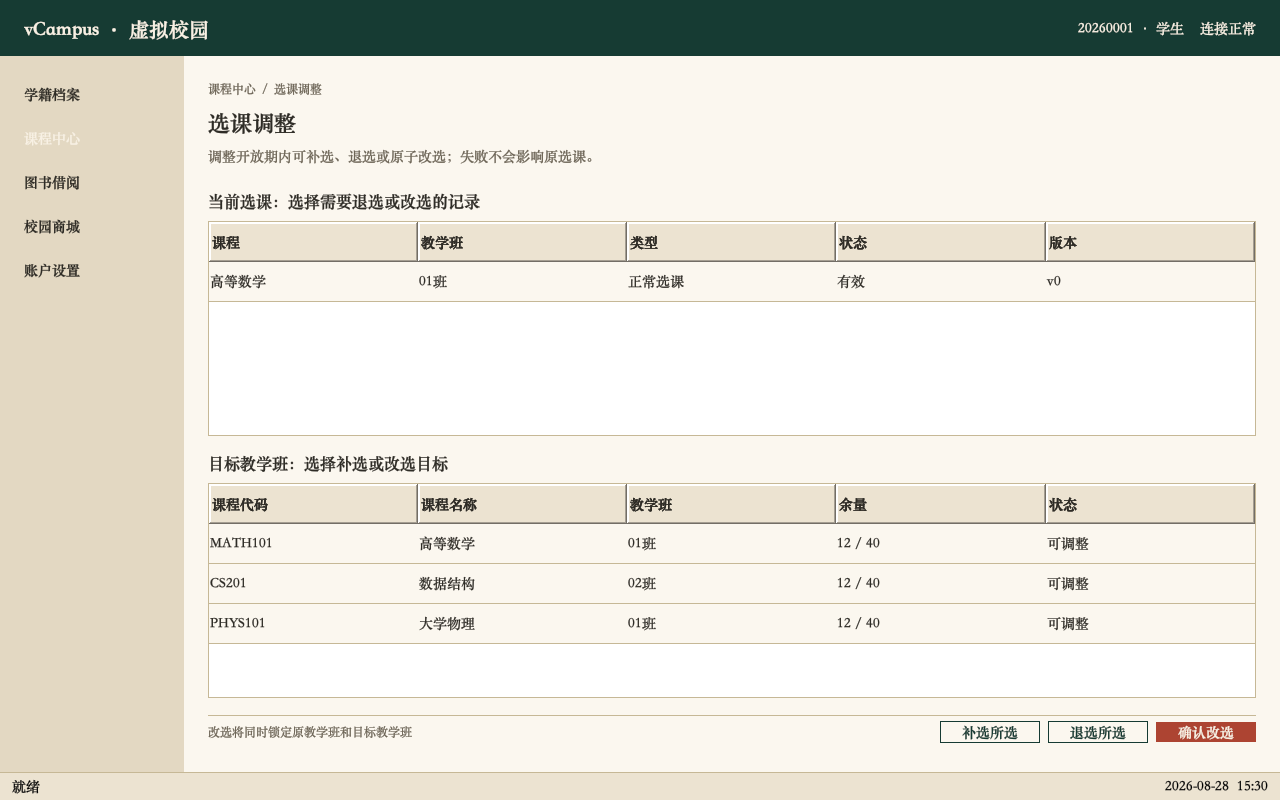
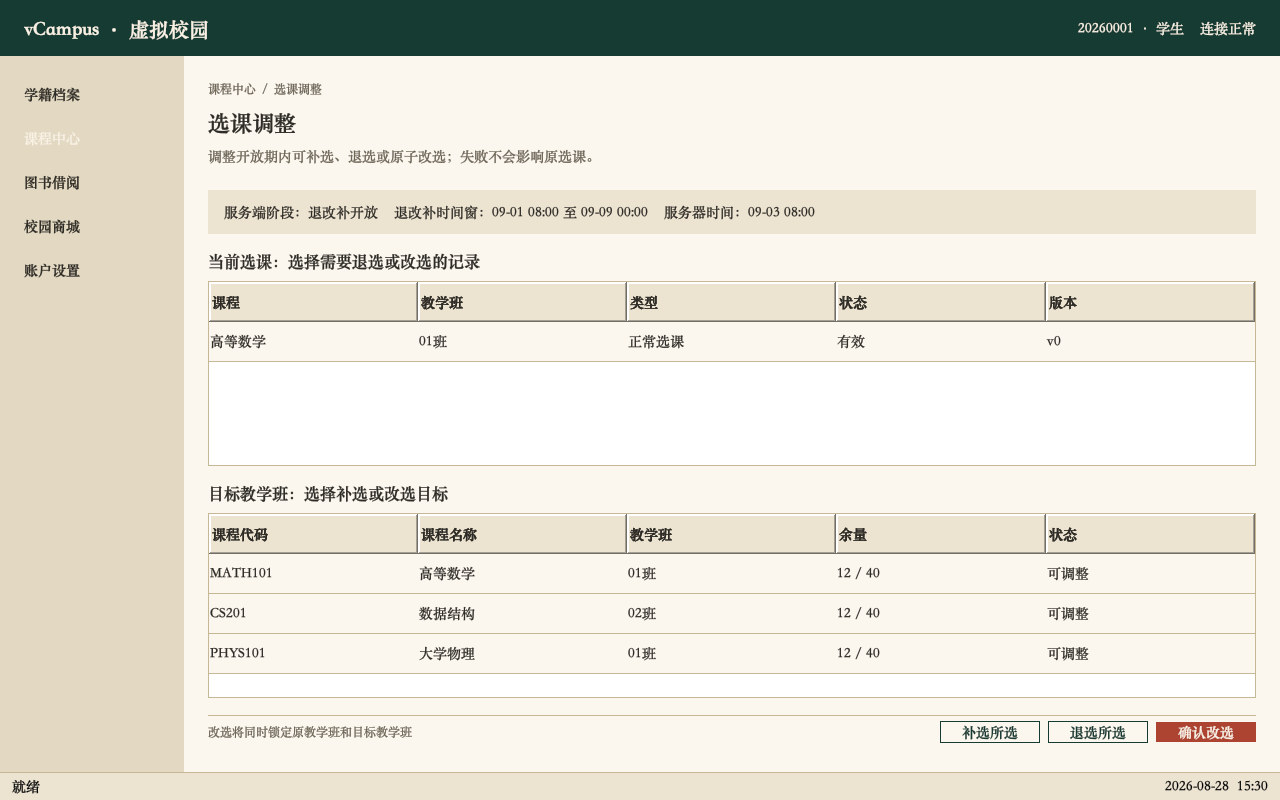
feat(course): show authoritative adjustment phase

Changed region(s): [[0.1562, 0.2188, 1.0, 0.4375], [0.1562, 0.5625, 1.0, 0.8438]]

diff --git a/vcampus-client/src/main/java/edu/seu/vcampus/client/course/ui/AdjustmentPanel.java b/vcampus-client/src/main/java/edu/seu/vcampus/client/course/ui/AdjustmentPanel.java
@@ -9,6 +9,7 @@ import edu.seu.vcampus.common.course.EnrollmentView;
 import edu.seu.vcampus.common.course.LateAddCommand;
 import edu.seu.vcampus.common.course.OfferingSearchQuery;
 import edu.seu.vcampus.common.course.OfferingSummary;
+import edu.seu.vcampus.common.course.TermPhaseView;
 
 import javax.swing.BorderFactory;
 import javax.swing.Box;
@@ -24,10 +25,14 @@ import java.awt.BorderLayout;
 import java.awt.GridLayout;
 import java.util.ArrayList;
 import java.util.List;
+import java.time.ZoneId;
+import java.time.format.DateTimeFormatter;
 
 /** Adjustment-window page for live add, drop, and atomic change commands. */
 public final class AdjustmentPanel extends AbstractCoursePanel {
+    private static final DateTimeFormatter TIME = DateTimeFormatter.ofPattern("MM-dd HH:mm").withZone(ZoneId.systemDefault());
     private final CourseUiGateway gateway;
+    private final JLabel phaseSummary = label("正在读取服务端阶段…", UiTypography.BODY, UiColors.TEXT_PRIMARY);
     private final DefaultTableModel enrollmentModel = readOnlyModel("课程", "教学班", "类型", "状态", "版本");
     private final DefaultTableModel offeringModel = readOnlyModel("课程代码", "课程名称", "教学班", "余量", "状态");
     private final JTable enrollmentTable = table(new Object[0][0], new Object[0]);
@@ -44,6 +49,11 @@ public final class AdjustmentPanel extends AbstractCoursePanel {
         offeringTable.setModel(offeringModel);
         offeringTable.getTableHeader().setBackground(UiColors.BACKGROUND_SUBTLE);
         offeringTable.getAccessibleContext().setAccessibleName("可调整教学班");
+
+        phaseSummary.setOpaque(true);
+        phaseSummary.setBackground(UiColors.BACKGROUND_SUBTLE);
+        phaseSummary.setBorder(BorderFactory.createEmptyBorder(UiSpacing.MD, UiSpacing.LG, UiSpacing.MD, UiSpacing.LG));
+        body.add(phaseSummary, BorderLayout.NORTH);
 
         JPanel tables = new JPanel(new GridLayout(2, 1, 0, UiSpacing.LG));
         tables.setOpaque(false);
@@ -89,7 +99,9 @@ public final class AdjustmentPanel extends AbstractCoursePanel {
         showState(ViewState.LOADING, "正在加载调整数据，请稍候");
         var enrollmentRequest = gateway.currentEnrollments();
         var offeringRequest = gateway.searchOfferings(new OfferingSearchQuery("2026-autumn", "", null, true, 0, 100));
-        enrollmentRequest.thenCombine(offeringRequest, Data::new).whenComplete((data, error) ->
+        var phaseRequest = gateway.getTermPhase("2026-autumn");
+        enrollmentRequest.thenCombine(offeringRequest, PartialData::new).thenCombine(phaseRequest,
+                (partial, phase) -> new Data(partial.enrollments(), partial.offerings(), phase)).whenComplete((data, error) ->
                 SwingUtilities.invokeLater(() -> {
                     enrollmentModel.setRowCount(0);
                     offeringModel.setRowCount(0);
@@ -101,6 +113,7 @@ public final class AdjustmentPanel extends AbstractCoursePanel {
                     }
                     enrollments.addAll(data.enrollments());
                     offerings.addAll(data.offerings().items());
+                    phaseSummary.setText(phaseText(data.phase()));
                     for (EnrollmentView row : enrollments) {
                         OfferingSummary offering = findOffering(row.offeringId());
                         enrollmentModel.addRow(new Object[]{
@@ -114,6 +127,17 @@ public final class AdjustmentPanel extends AbstractCoursePanel {
                             Math.max(0, row.capacity() - row.enrolledCount()) + " / " + row.capacity(), "可调整"});
                     showState(ViewState.NORMAL, "");
                 }));
+    }
+
+    private static String phaseText(TermPhaseView phase) {
+        String status = switch (phase.phase()) {
+            case "ENROLLMENT" -> "正常选课开放";
+            case "ADJUSTMENT" -> "退改补开放";
+            default -> "只读阶段";
+        };
+        if ("CLOSED".equals(phase.termStatus())) status = "学期已关闭";
+        return "服务端阶段：" + status + "    退改补时间窗：" + TIME.format(phase.adjustmentStartAt())
+                + " 至 " + TIME.format(phase.adjustmentEndAt()) + "    服务器时间：" + TIME.format(phase.serverTime());
     }
 
     private OfferingSummary findOffering(String offeringId) {
@@ -186,5 +210,7 @@ public final class AdjustmentPanel extends AbstractCoursePanel {
         };
     }
 
-    private record Data(List<EnrollmentView> enrollments, edu.seu.vcampus.common.paging.PageResult<OfferingSummary> offerings) { }
+    private record PartialData(List<EnrollmentView> enrollments, edu.seu.vcampus.common.paging.PageResult<OfferingSummary> offerings) { }
+    private record Data(List<EnrollmentView> enrollments, edu.seu.vcampus.common.paging.PageResult<OfferingSummary> offerings,
+                        TermPhaseView phase) { }
 }

diff --git a/vcampus-client/src/main/java/edu/seu/vcampus/client/course/ui/CourseUiGateway.java b/vcampus-client/src/main/java/edu/seu/vcampus/client/course/ui/CourseUiGateway.java
@@ -15,6 +15,7 @@ import edu.seu.vcampus.common.course.TermView;
 import edu.seu.vcampus.common.course.ImportCourseOutcomesCommand;
 import edu.seu.vcampus.common.course.CreateCourseCommand;
 import edu.seu.vcampus.common.course.UpdateCourseCommand;
+import edu.seu.vcampus.common.course.TermPhaseView;
 import edu.seu.vcampus.common.protocol.EmptyResponse;
 import edu.seu.vcampus.common.course.OfferingSearchQuery;
 import edu.seu.vcampus.common.course.OfferingSummary;
@@ -41,6 +42,7 @@ public interface CourseUiGateway {
     default CompletableFuture<EmptyResponse> importOutcomes(ImportCourseOutcomesCommand command) { return unsupported(); }
     default CompletableFuture<CourseView> createCourse(CreateCourseCommand command) { return unsupported(); }
     default CompletableFuture<CourseView> updateCourse(UpdateCourseCommand command) { return unsupported(); }
+    default CompletableFuture<TermPhaseView> getTermPhase(String termId) { return unsupported(); }
 
     private static <T> CompletableFuture<T> unsupported() {
         return CompletableFuture.failedFuture(new UnsupportedOperationException("Course operation is not connected"));
@@ -125,6 +127,12 @@ public interface CourseUiGateway {
                         command.courseId(), command.courseCode(), command.courseName(), command.credit(),
                         command.totalHours(), command.description(), command.active(), command.expectedVersion() + 1,
                         java.time.Instant.now(), java.time.Instant.now()));
+            }
+            public CompletableFuture<TermPhaseView> getTermPhase(String termId) {
+                return CompletableFuture.completedFuture(new TermPhaseView(termId, "ACTIVE", "ADJUSTMENT",
+                        java.time.Instant.parse("2026-09-03T00:00:00Z"), java.time.Instant.parse("2026-08-20T00:00:00Z"),
+                        java.time.Instant.parse("2026-08-31T16:00:00Z"), java.time.Instant.parse("2026-09-01T00:00:00Z"),
+                        java.time.Instant.parse("2026-09-08T16:00:00Z")));
             }
         };
     }

diff --git a/vcampus-client/src/test/java/edu/seu/vcampus/client/course/ui/CourseUiTest.java b/vcampus-client/src/test/java/edu/seu/vcampus/client/course/ui/CourseUiTest.java
@@ -24,6 +24,7 @@ import edu.seu.vcampus.common.course.ImportCourseOutcomesCommand;
 import edu.seu.vcampus.common.course.CourseOutcome;
 import edu.seu.vcampus.common.course.CreateCourseCommand;
 import edu.seu.vcampus.common.course.UpdateCourseCommand;
+import edu.seu.vcampus.common.course.TermPhaseView;
 import edu.seu.vcampus.common.paging.PageResult;
 import org.junit.jupiter.api.Test;
 
@@ -189,6 +190,12 @@ class CourseUiTest {
             }
             @Override public CompletableFuture<RetakeEligibility> checkRetake(String courseId) { return CompletableFuture.completedFuture(new RetakeEligibility(courseId, false, List.of(), "")); }
             @Override public CompletableFuture<EnrollmentView> enrollRetake(RetakeCommand command) { return base.enroll(new EnrollCommand(command.offeringId())); }
+            @Override public CompletableFuture<TermPhaseView> getTermPhase(String termId) {
+                return CompletableFuture.completedFuture(new TermPhaseView(termId, "ACTIVE", "ADJUSTMENT",
+                        Instant.parse("2026-09-03T00:00:00Z"), Instant.parse("2026-08-20T00:00:00Z"),
+                        Instant.parse("2026-08-31T16:00:00Z"), Instant.parse("2026-09-01T00:00:00Z"),
+                        Instant.parse("2026-09-08T16:00:00Z")));
+            }
         };
         AdjustmentPanel panel = onEdt(() -> new AdjustmentPanel(gateway));
         SwingUtilities.invokeAndWait(() -> { });
@@ -201,6 +208,7 @@ class CourseUiTest {
         assertThat(tables.get(0).getValueAt(0, 1)).isEqualTo("01班");
         assertThat(tables.get(0).getValueAt(0, 2)).isEqualTo("正常选课");
         assertThat(tables.get(0).getValueAt(0, 3)).isEqualTo("有效");
+        assertThat(labels(panel)).anyMatch(text -> text.contains("退改补开放") && text.contains("09-01") && text.contains("09-09"));
 
         SwingUtilities.invokeAndWait(() -> {
             tables.get(0).setRowSelectionInterval(0, 0);

diff --git a/vcampus-client/src/main/java/edu/seu/vcampus/client/course/ui/CourseClientGateway.java b/vcampus-client/src/main/java/edu/seu/vcampus/client/course/ui/CourseClientGateway.java
@@ -16,6 +16,7 @@ import edu.seu.vcampus.common.course.TermView;
 import edu.seu.vcampus.common.course.ImportCourseOutcomesCommand;
 import edu.seu.vcampus.common.course.CreateCourseCommand;
 import edu.seu.vcampus.common.course.UpdateCourseCommand;
+import edu.seu.vcampus.common.course.TermPhaseView;
 import edu.seu.vcampus.common.protocol.EmptyResponse;
 import edu.seu.vcampus.common.course.OfferingSearchQuery;
 import edu.seu.vcampus.common.course.OfferingSummary;
@@ -61,4 +62,5 @@ final class CourseClientGateway implements CourseUiGateway {
     public CompletableFuture<EmptyResponse> importOutcomes(ImportCourseOutcomesCommand command) { return client.importOutcomes(command); }
     public CompletableFuture<CourseView> createCourse(CreateCourseCommand command) { return client.createCourse(command); }
     public CompletableFuture<CourseView> updateCourse(UpdateCourseCommand command) { return client.updateCourse(command); }
+    public CompletableFuture<TermPhaseView> getTermPhase(String termId) { return client.getTermPhase(termId); }
 }
